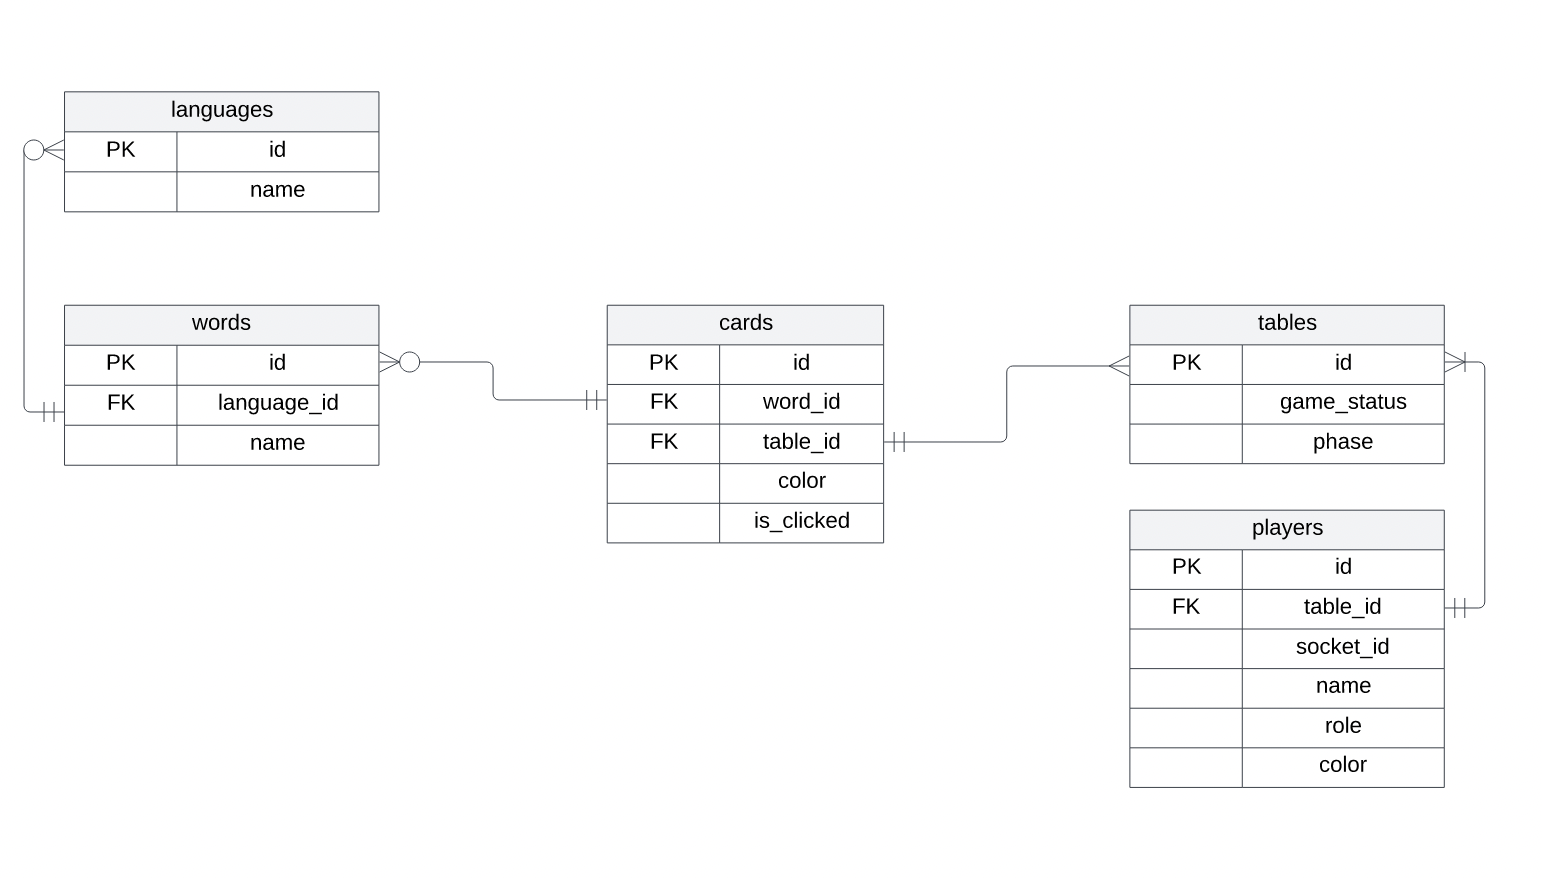
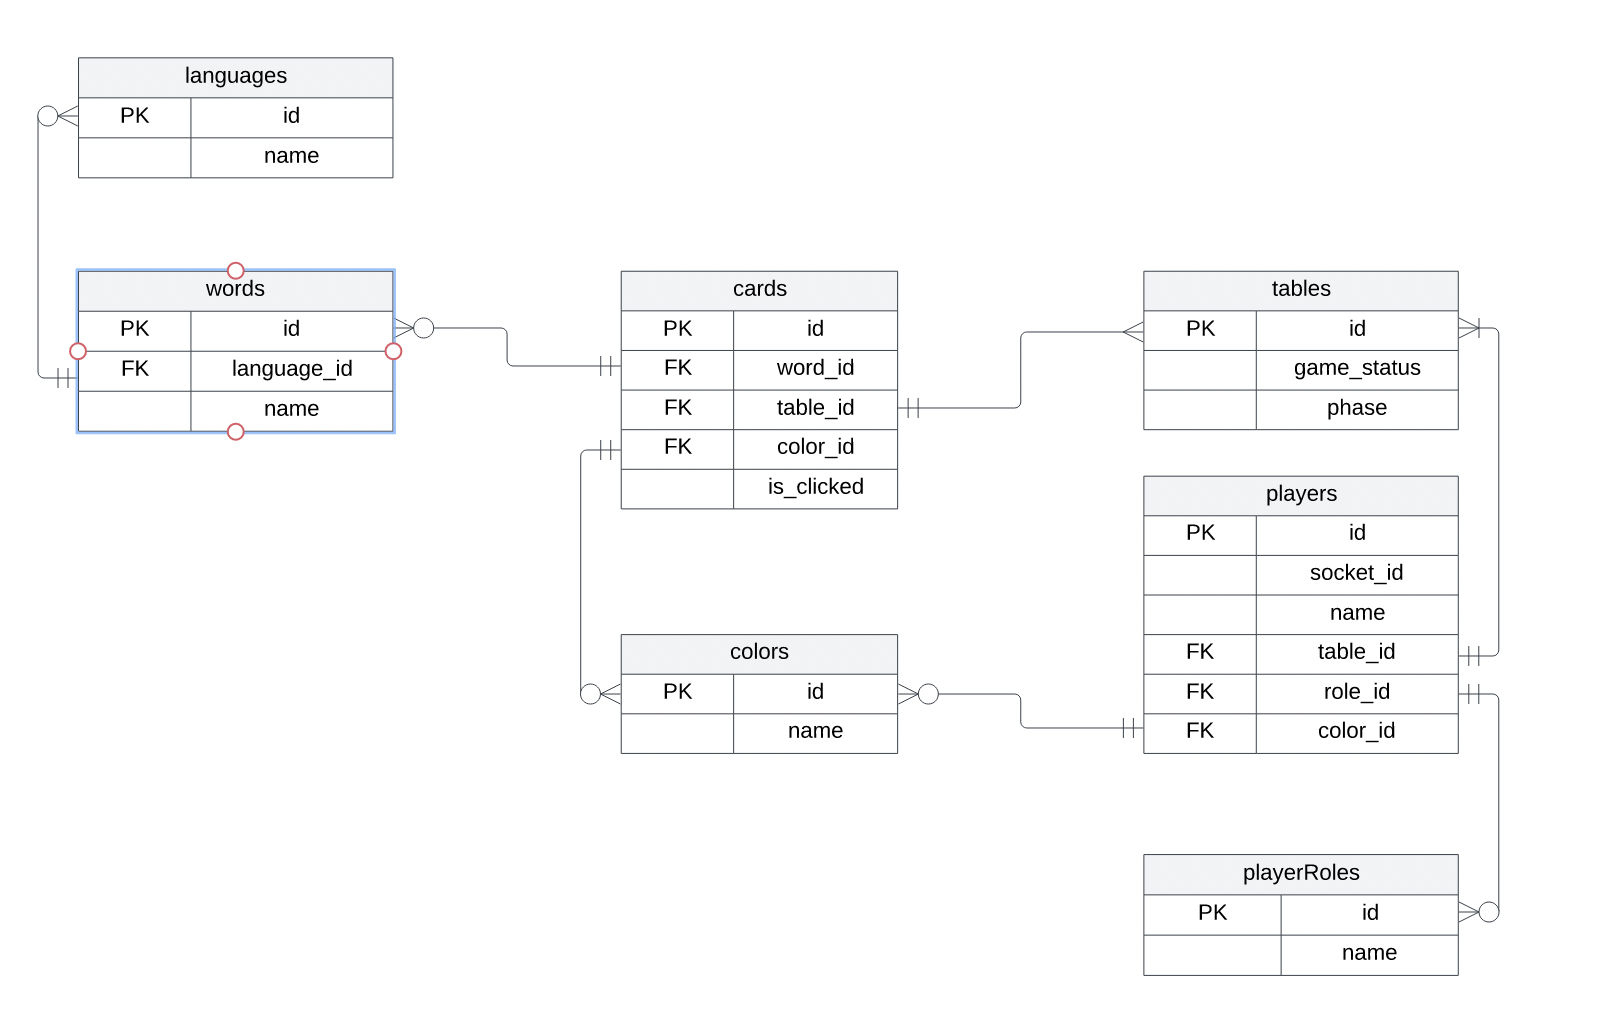
add models for a database

diff --git a/backend/models/player.go b/backend/models/player.go
@@ -1,0 +1,18 @@
+package models
+
+import (
+	"time"
+)
+
+type Player struct {
+	ID            uint   `json:"id" gorm:"primaryKey,AUTO_INCREMENT"`
+	Name          string `json:"name" gorm:"not null"`
+	CreatedAt     time.Time
+	Socket_id     string     `json:"socket_id" gorm:"not null;unique"`
+	Color_idRefer int        `json:"color_id" gorm:"not null"`
+	Color         Color      `gorm:"foreignKey:Color_idRefer;constraint:OnDelete:CASCADE"`
+	Role_idRefer  int        `json:"role_id" gorm:"not null"`
+	Role          PlayerRole `gorm:"foreignKey:Role_idRefer;constraint:OnDelete:CASCADE"`
+	Table_idRefer int        `json:"table_id" gorm:"not null"`
+	Table         Table      `gorm:"foreignKey:Table_idRefer;constraint:OnDelete:CASCADE"`
+}

diff --git a/backend/database/main.go b/backend/database/main.go
@@ -5,6 +5,7 @@ import (
 	"log"
 
 	"github.com/yk-jp/Codenames/config"
+	"github.com/yk-jp/Codenames/models"
 	"gorm.io/driver/mysql"
 	"gorm.io/gorm"
 	"gorm.io/gorm/logger"
@@ -26,6 +27,8 @@ func ConnectDb(config config.Config) {
 	log.Println("Conecction was successful")
 	db.Logger = logger.Default.LogMode(logger.Info)
 	log.Println("Running migrations")
+
+	db.AutoMigrate(&models.Card{}, &models.Word{}, &models.Language{}, &models.Player{}, &models.PlayerRole{}, &models.Table{}, &models.Color{})
 
 	Db = DBInstance{Db: db}
 }

diff --git a/backend/models/card.go b/backend/models/card.go
@@ -1,0 +1,12 @@
+package models
+
+type Card struct {
+	ID            uint  `json:"id" gorm:"primaryKey, AUTO_INCREMENT"`
+	Word_idRefer  int   `json:"word_id" gorm:"not null"`
+	Word_id       Word  `gorm:"foreignKey:Word_idRefer"`
+	Table_idRefer int   `json:"table_id" gorm:"not null"`
+	Table         Table `gorm:"foreignKey:Table_idRefer"`
+	Color_idRefer int   `json:"color_id" gorm:"not null"`
+	Color         Color `gorm:"foreignKey:Color_idRefer"`
+	Is_clicked    uint  `json:"is_clicked"`
+}

diff --git a/backend/models/word.go b/backend/models/word.go
@@ -1,0 +1,8 @@
+package models
+
+type Word struct {
+	ID               uint     `json:"id" gorm:"primaryKey, AUTO_INCREMENT"`
+	Name             string   `json:"name" gorm:"not null, unique"`
+	Language_idRefer int      `json:"language_id" gorm:"not null, unique"`
+	Language         Language `gorm:"foreignKey:Language_idRefer;constraint:OnDelete:CASCADE"`
+}

diff --git a/backend/models/table.go b/backend/models/table.go
@@ -1,0 +1,7 @@
+package models
+
+type Table struct {
+	ID          uint   `json:"id" gorm:"primaryKey, AUTO_INCREMENT"`
+	Game_status string `json:"game_status" gorm:"not null"`
+	Phase       string `json:"phase" gorm:"not null"`
+}

diff --git a/backend/models/playerRole.go b/backend/models/playerRole.go
@@ -1,0 +1,6 @@
+package models
+
+type PlayerRole struct {
+	ID   uint   `json:"id" gorm:"primaryKey,AUTO_INCREMENT"`
+	Name string `json:"name" gorm:"not null"`
+}

diff --git a/backend/models/language.go b/backend/models/language.go
@@ -1,0 +1,6 @@
+package models
+
+type Language struct {
+	ID   uint   `json:"id" gorm:"primaryKey, AUTO_INCREMENT"`
+	Name string `json:"name" gorm:"not null"`
+}

diff --git a/backend/models/color.go b/backend/models/color.go
@@ -1,0 +1,6 @@
+package models
+
+type Color struct {
+	ID   uint   `json:"id" gorm:"primaryKey, AUTO_INCREMENT"`
+	Name string `json:"name" gorm:"not null"`
+}
